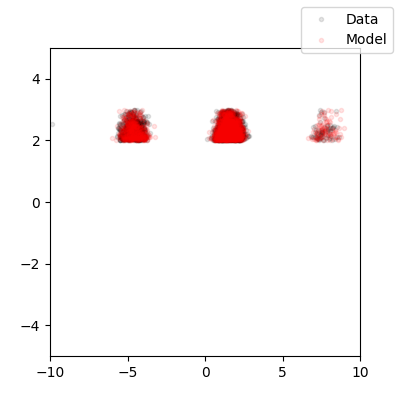
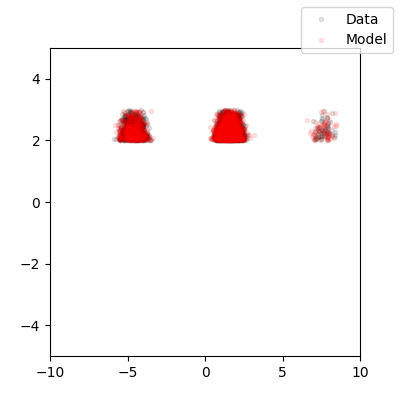
sbi tweaking

diff --git a/sbi/utils.py b/sbi/utils.py
@@ -83,19 +83,16 @@ class SSFM(nn.Module):
         v_mean[x0_mask] = 0  # Zero out the conditional velocities
         return v_mean
 
-    def embed(self, data: T.Tensor) -> T.Tensor:
-        """Embed / tokenise the input data for the encoder."""
-        vals = T.stack([emb(x) for emb, x in zip(self.val_emb, data)], dim=1)
-        poss = T.stack([emb(x) for emb, x in zip(self.pos_emb, data)], dim=1)
-        return T.cat([vals, poss], dim=-1)
-
-    def get_loss(self, x0: T.Tensor) -> T.Tensor:
+    def get_loss(self, x0: T.Tensor, log_return: bool = False) -> dict:
         """Calculate the CFM loss given the clean batch."""
         B, S, _D = x0.shape
 
         # The data will be routed to either the encoder or decoder via the mask
         # The mask is True for encoder inputs and False for decoder inputs
-        x0_mask = T.rand((B, S), device=x0.device) < 0.5
+        x0_mask = T.rand((B, S), device=x0.device) > 0.35
+        b_idx = T.arange(B, device=x0.device)
+        f_idx = T.randint(0, S, (B,), device=x0.device)
+        x0_mask[b_idx, f_idx] = False  # Force at least one False per row
         xt_mask = ~x0_mask
 
         # Get all the values needed for conditional flow matching
@@ -114,7 +111,7 @@ class SSFM(nn.Module):
             return_logvar=True,
         )
 
-        # Trim the velocity vectors to the ones that will be used in the loss
+        # Trim to the terms that will be used in the loss
         v_mean = v_mean[xt_mask]
         v_logvar = v_logvar[xt_mask]
         v = v[xt_mask]
@@ -162,6 +159,28 @@ def sample_toy_data(n_samples: int, device: T.device) -> T.Tensor:
     x2 = T.randn_like(theta) * 0.5 * x1.abs() + 0.1 * theta**2
     combined = T.stack([theta, x1, x2], dim=1)
     return combined.float().unsqueeze(-1)  # B x S x D = B x 3 x 1
+
+
+def plot_scatter(
+    vals: list[list],
+    labels: list[str],
+    path: str,
+    xlabel: str = "",
+    ylabel: str = "",
+    xlim: float | None = None,
+    ylim: float | None = None,
+) -> None:
+    fig, axis = plt.subplots(1, 1, figsize=(4, 4))
+    for i, ((x, y), label) in enumerate(zip(vals, labels, strict=True)):
+        axis.plot(x, y, ".", label=label, color=f"C{i}", alpha=0.05)
+    axis.set_xlim(xlim)
+    axis.set_ylim(ylim)
+    axis.set_xlabel(xlabel)
+    axis.set_ylabel(ylabel)
+    fig.legend()
+    fig.set_tight_layout(True)
+    fig.savefig(path)
+    plt.close()
 
 
 def plot_histos(data: np.ndarray, output: np.ndarray, path: str) -> None:

diff --git a/sbi/toy.py b/sbi/toy.py
@@ -69,7 +69,7 @@ def import_args():
     parser.add_argument(
         "--plot_interval",
         type=int,
-        default=1000,
+        default=500,
         help="How often to plot",
     )
     parser.add_argument(
@@ -108,6 +108,8 @@ def main():
     model.to(device)
     ema_model = deepcopy(model)
     ema_model.requires_grad_(False)
+    model.train()  # Online model always in training mode
+    ema_model.eval()  # Offline model always in eval mode
     print(f"Model has {count_parameters(model)} parameters.")
 
     # Initialise the optimiser and scheduler
@@ -125,32 +127,23 @@ def main():
     # Training
     pbar = trange(args.total_steps)
     for it in pbar:
-        model.train()
         optim.zero_grad()
 
-        # Get training samples
         x = sample_toy_data(args.batch_size, device)
-
-        # Get loss
         loss = model.get_loss(x)
 
-        # Gradient step
         loss.backward()
         T.nn.utils.clip_grad_norm_(model.parameters(), args.grad_clip)
         optim.step()
         sched.step()
 
-        # Update the EMA model
         ema_param_sync(model, ema_model, args.ema_decay)
 
-        # Set the tqdm bar to show the loss and the lr
         lr = optim.param_groups[0]["lr"]
         pbar.set_postfix(loss=loss.item(), lr=lr, refresh=False)
 
         # Plot some intermediate results
         if it % args.plot_interval == 0:
-            ema_model.eval()
-
             # Do the fully marginal case - everything goes to decoder (x0_mask = False)
             x = sample_toy_data(args.inference_samples, device)
             x0_mask = T.zeros((args.inference_samples, 3), dtype=T.bool, device=device)
